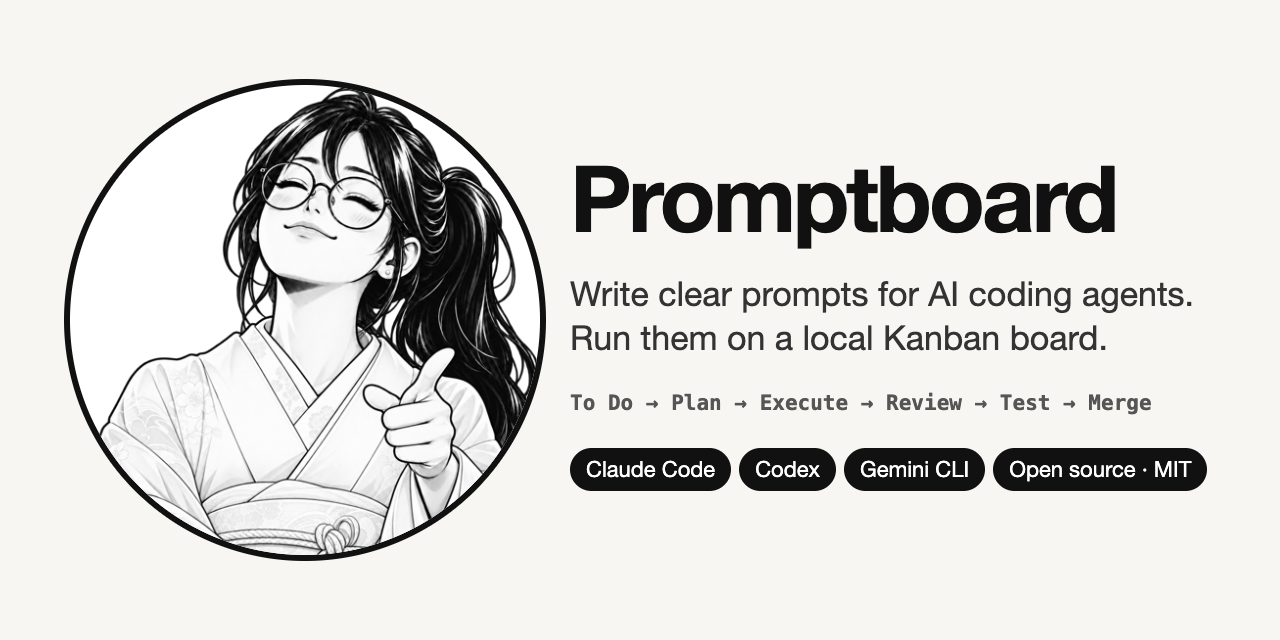
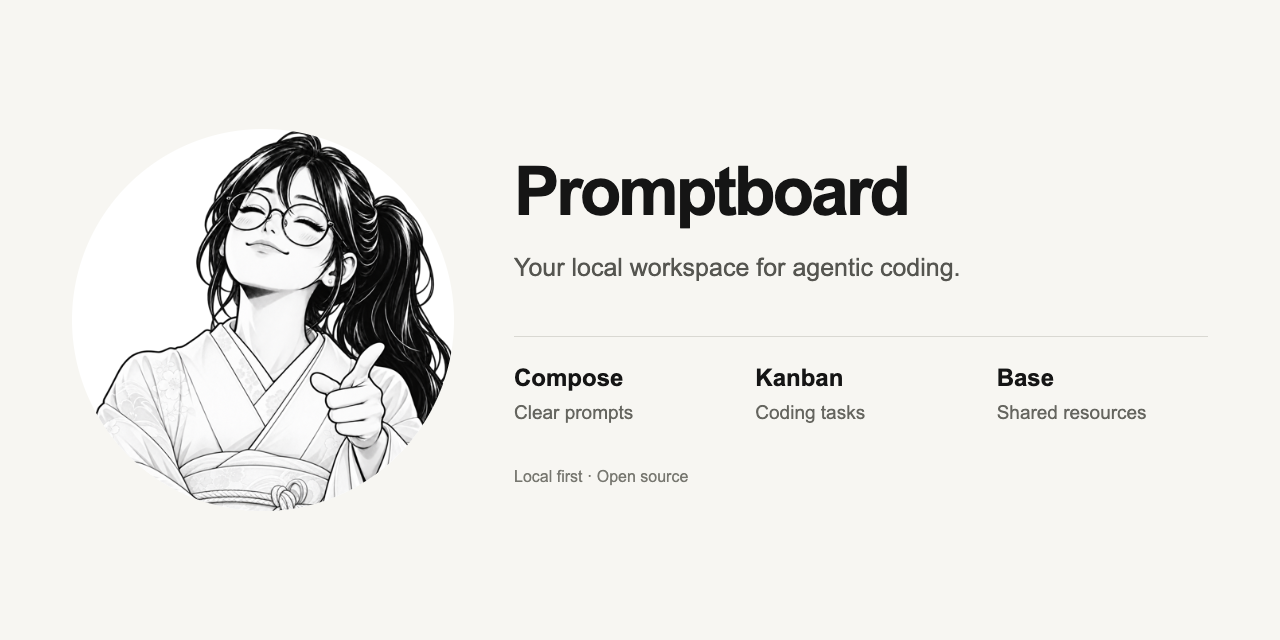
Refresh GitHub preview and current UI demos

Changed region(s): [[0.0312, 0.125, 0.9688, 0.875]]

diff --git a/README.md b/README.md
@@ -30,8 +30,8 @@ Open **http://127.0.0.1:4318**. The navigation is **Compose | Kanban | Base**. P
 - Copy it, add it to Kanban, or split it into smaller, editable To Do tasks.
 
 <p align="center">
-  <img src="docs/compose-demo.gif" width="960" alt="Dark-mode Compose demo: enter a request, generate a structured prompt, edit and save it, then split it into three To Do tasks.">
-  <br><sub>Idea → prompt → optional edits → tasks</sub>
+  <img src="docs/compose-demo.gif" width="960" alt="Dark-mode Compose demo: enter a request, choose Add a feature and generation settings, generate a structured prompt, edit and save it, then use More to split it into three To Do tasks.">
+  <br><sub>Idea → settings → prompt → optional edits → tasks</sub>
 </p>
 
 ## Kanban — take tasks from To Do to Done
@@ -55,8 +55,8 @@ Open **http://127.0.0.1:4318**. The navigation is **Compose | Kanban | Base**. P
 - Pipeline first input uses a [task envelope](docs/pipeline-prompts.md) preserving engineered prompt content, with selected Base resources and inherited CLI tools. Column automations and advanced session strategies are still being implemented.
 
 <p align="center">
-  <img src="docs/kanban-demo.gif" width="960" alt="Dark-mode Kanban demo: consent to Autopilot, run a task through Executing, Code Review, Testing and Merge, and finish in Done with agent terminal tabs.">
-  <br><sub>To Do → Execute → Review → Test → Merge → Done</sub>
+  <img src="docs/kanban-demo.gif" width="960" alt="Dark-mode Kanban demo: browse the project workspace and sidebar settings, consent to Autopilot, run a task through Executing, Code Review, Testing and Merge, and finish in Done with agent terminal tabs.">
+  <br><sub>Project setup → To Do → Execute → Review → Test → Merge → Done</sub>
 </p>
 
 ## Base — store once, reuse where you need it
@@ -67,7 +67,7 @@ Open **http://127.0.0.1:4318**. The navigation is **Compose | Kanban | Base**. P
 - Edit linked Markdown wikis, import text sources, and optionally generate reviewable wiki drafts. **Run details** shows the pinned resources and what was actually supplied.
 
 <p align="center">
-  <img src="docs/base-demo.gif" width="960" alt="Dark-mode Base demo: browse the shared resource library, inspect skill instructions, view equipped agent cards, preview a project assignment, and save it without starting an agent.">
+  <img src="docs/base-demo.gif" width="960" alt="Dark-mode Base demo: browse the shared resource library, inspect skill instructions and linked knowledge pages, view equipped agent cards, preview a project assignment, and save it without starting an agent.">
   <br><sub>Store → configure → assign optionally → inspect delivery</sub>
 </p>
 
@@ -120,6 +120,7 @@ Read [SECURITY.md](SECURITY.md) before working with sensitive repositories. [Kan
 - `node bin/ste.mjs --help` for command-line usage; `node bin/ste.mjs --doctor` for CLI detection.
 - `npm start -- --port 4320` to use another port.
 - `node scripts/record-demo.mjs` regenerates all three demos with Chrome and ffmpeg, without paid model calls.
+- `node scripts/create-social-preview.mjs` renders the minimal Compose, Kanban and Base GitHub preview at 1280×640.
 
 ## License
 

diff --git a/CHANGELOG.md b/CHANGELOG.md
@@ -2,6 +2,8 @@
 
 ## Unreleased
 
+- Refresh the short dark-mode Compose, Kanban and Base demos with the current interface, including task settings, sidebar project setup and linked knowledge pages. Simplify the GitHub social preview around all three pages and add its repeatable renderer.
+
 - Move Kanban project settings into the project sidebar and keep the board at full width. Use one compact disclosure for repository, target branch, project agent and workflow controls; hide redundant project selection, shorten repository status and collapse backup actions while preserving keyboard and phone navigation.
 
 - Store repositories created through New project under `~/Promptboard/projects` by default, with `PROMPTBOARD_PROJECTS_DIR` override support. Keep projects opened from existing local folders at their original absolute paths and explain both locations in the interface.

diff --git a/docs/logo-prompt.md b/docs/logo-prompt.md
@@ -22,3 +22,7 @@ Constraints: no lettering, no text, no watermark, no background, no objects, no 
 ## GitHub logo
 
 `docs/logo.png` is the README logo on GitHub only; the app does not use it. It was created with ChatGPT image generation on 2026-09-29 and supplied by the project owner, resized to 480 px.
+
+## GitHub social preview
+
+`docs/social-preview.png` uses the same supplied mascot with a minimal overview of Compose, Kanban and Base. The 1280×640 card is rendered with `node scripts/create-social-preview.mjs`; no new image generation is needed. Upload this PNG in the repository's General settings under Social preview after regenerating it.
